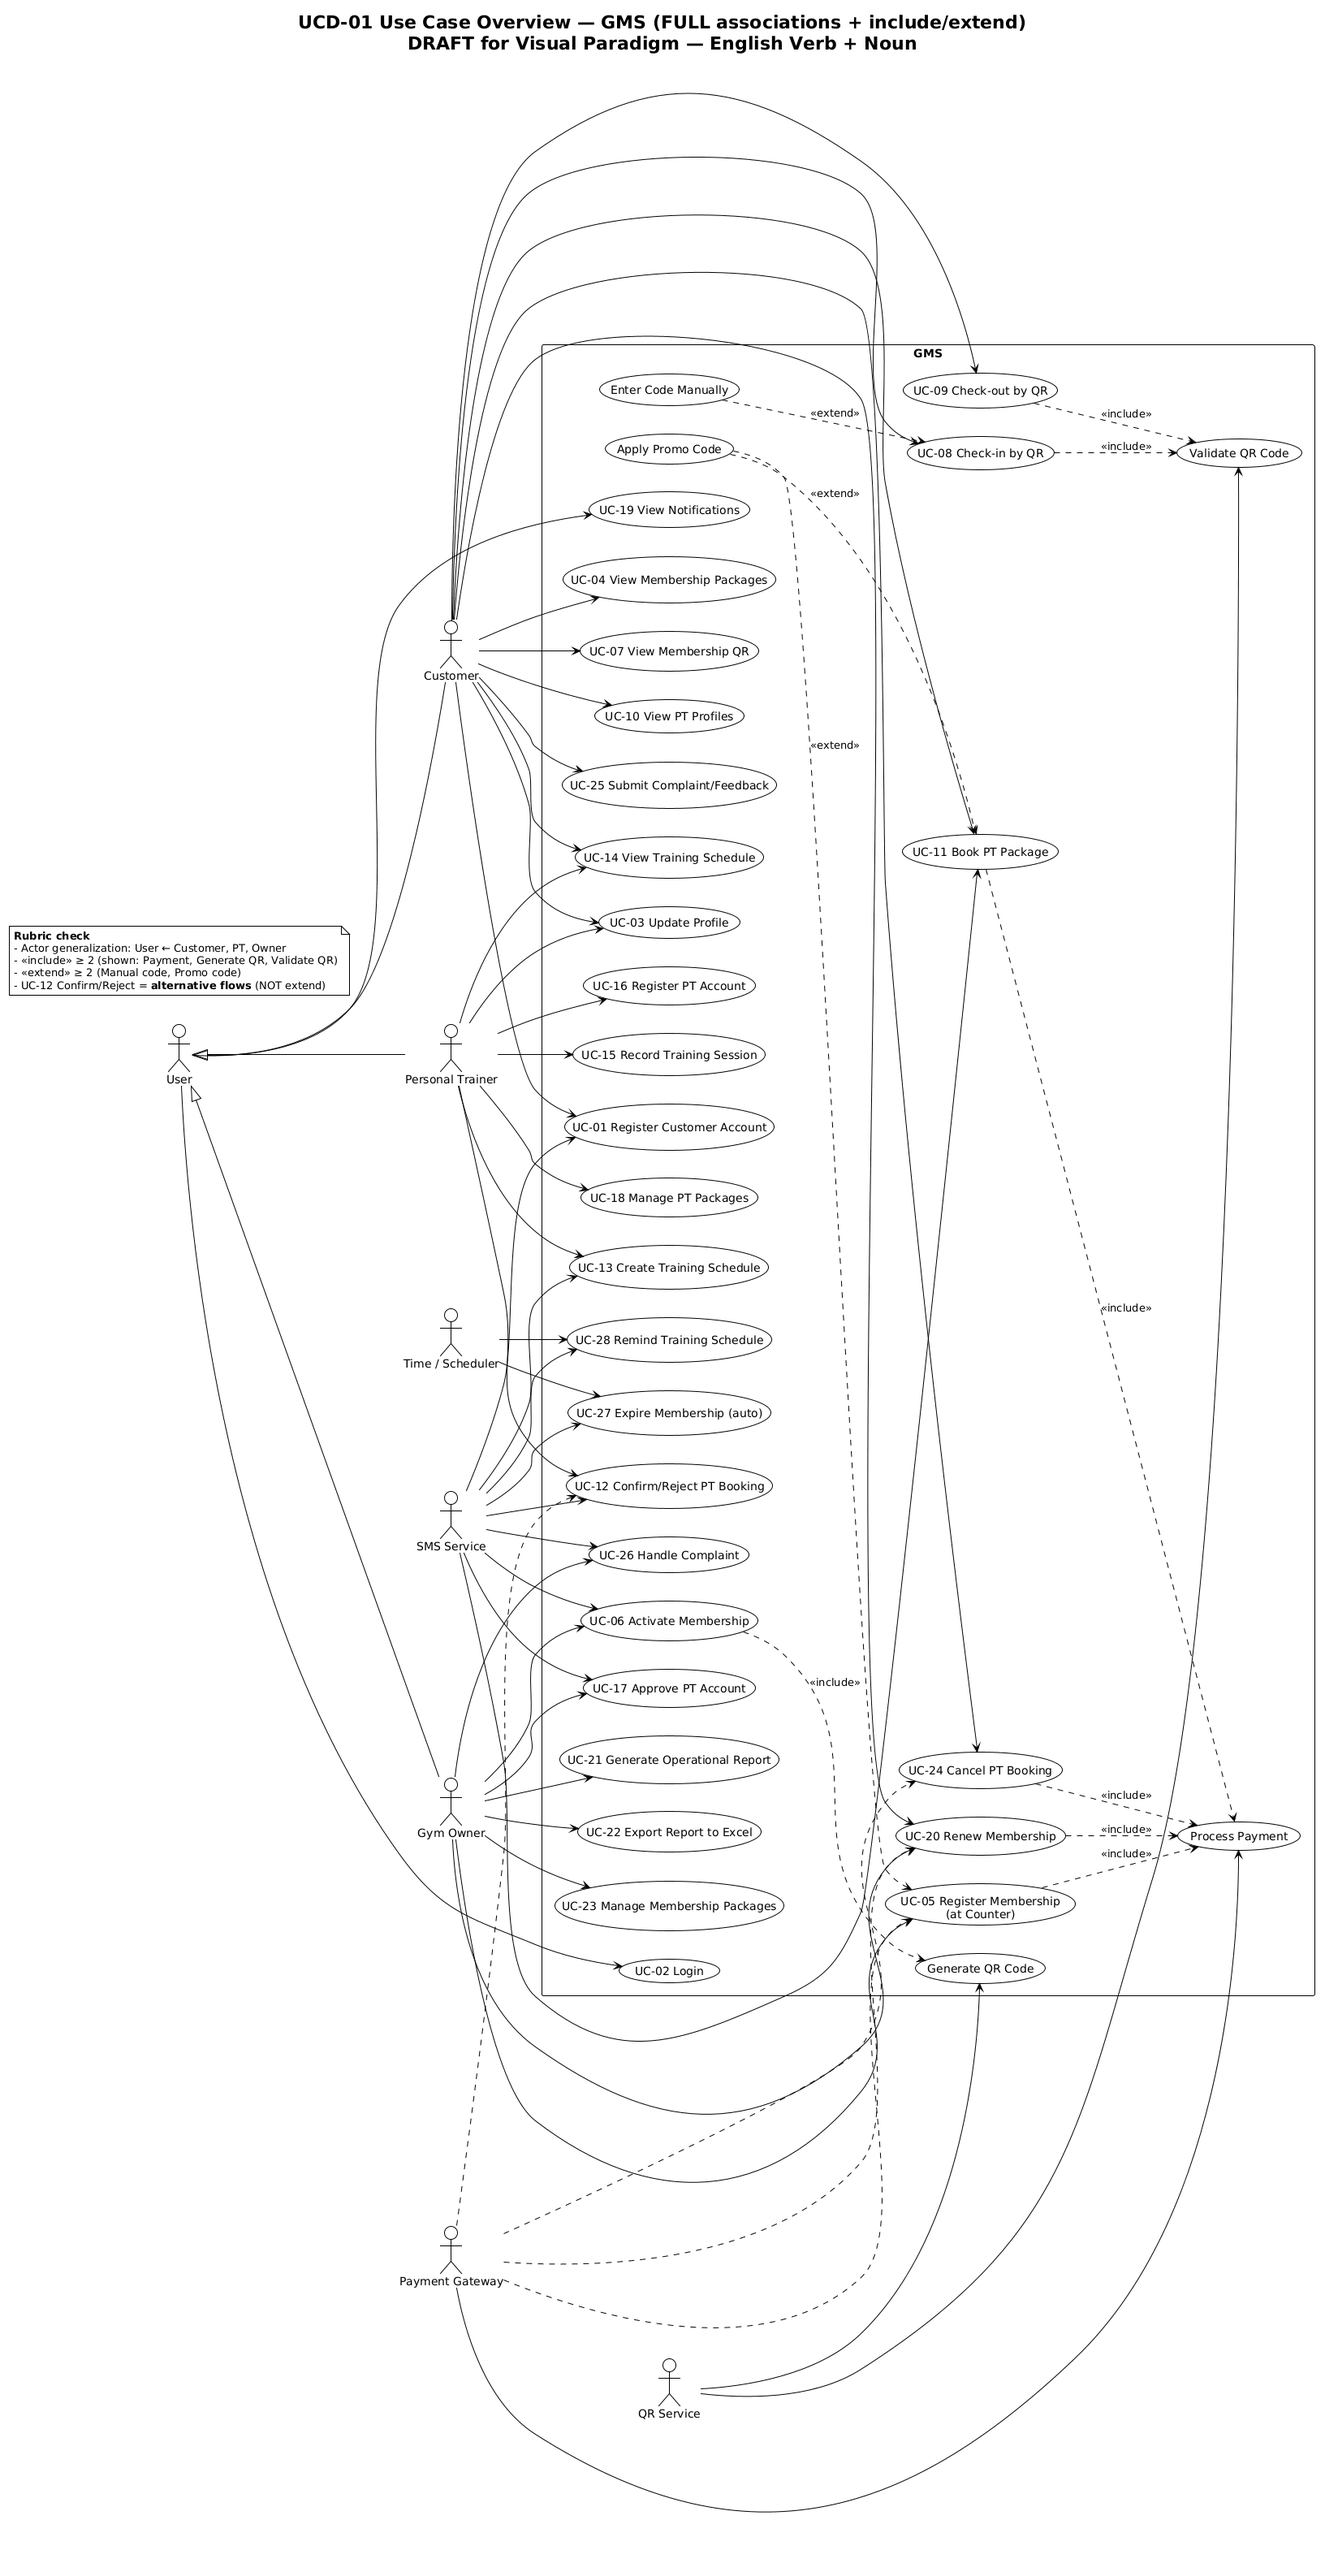
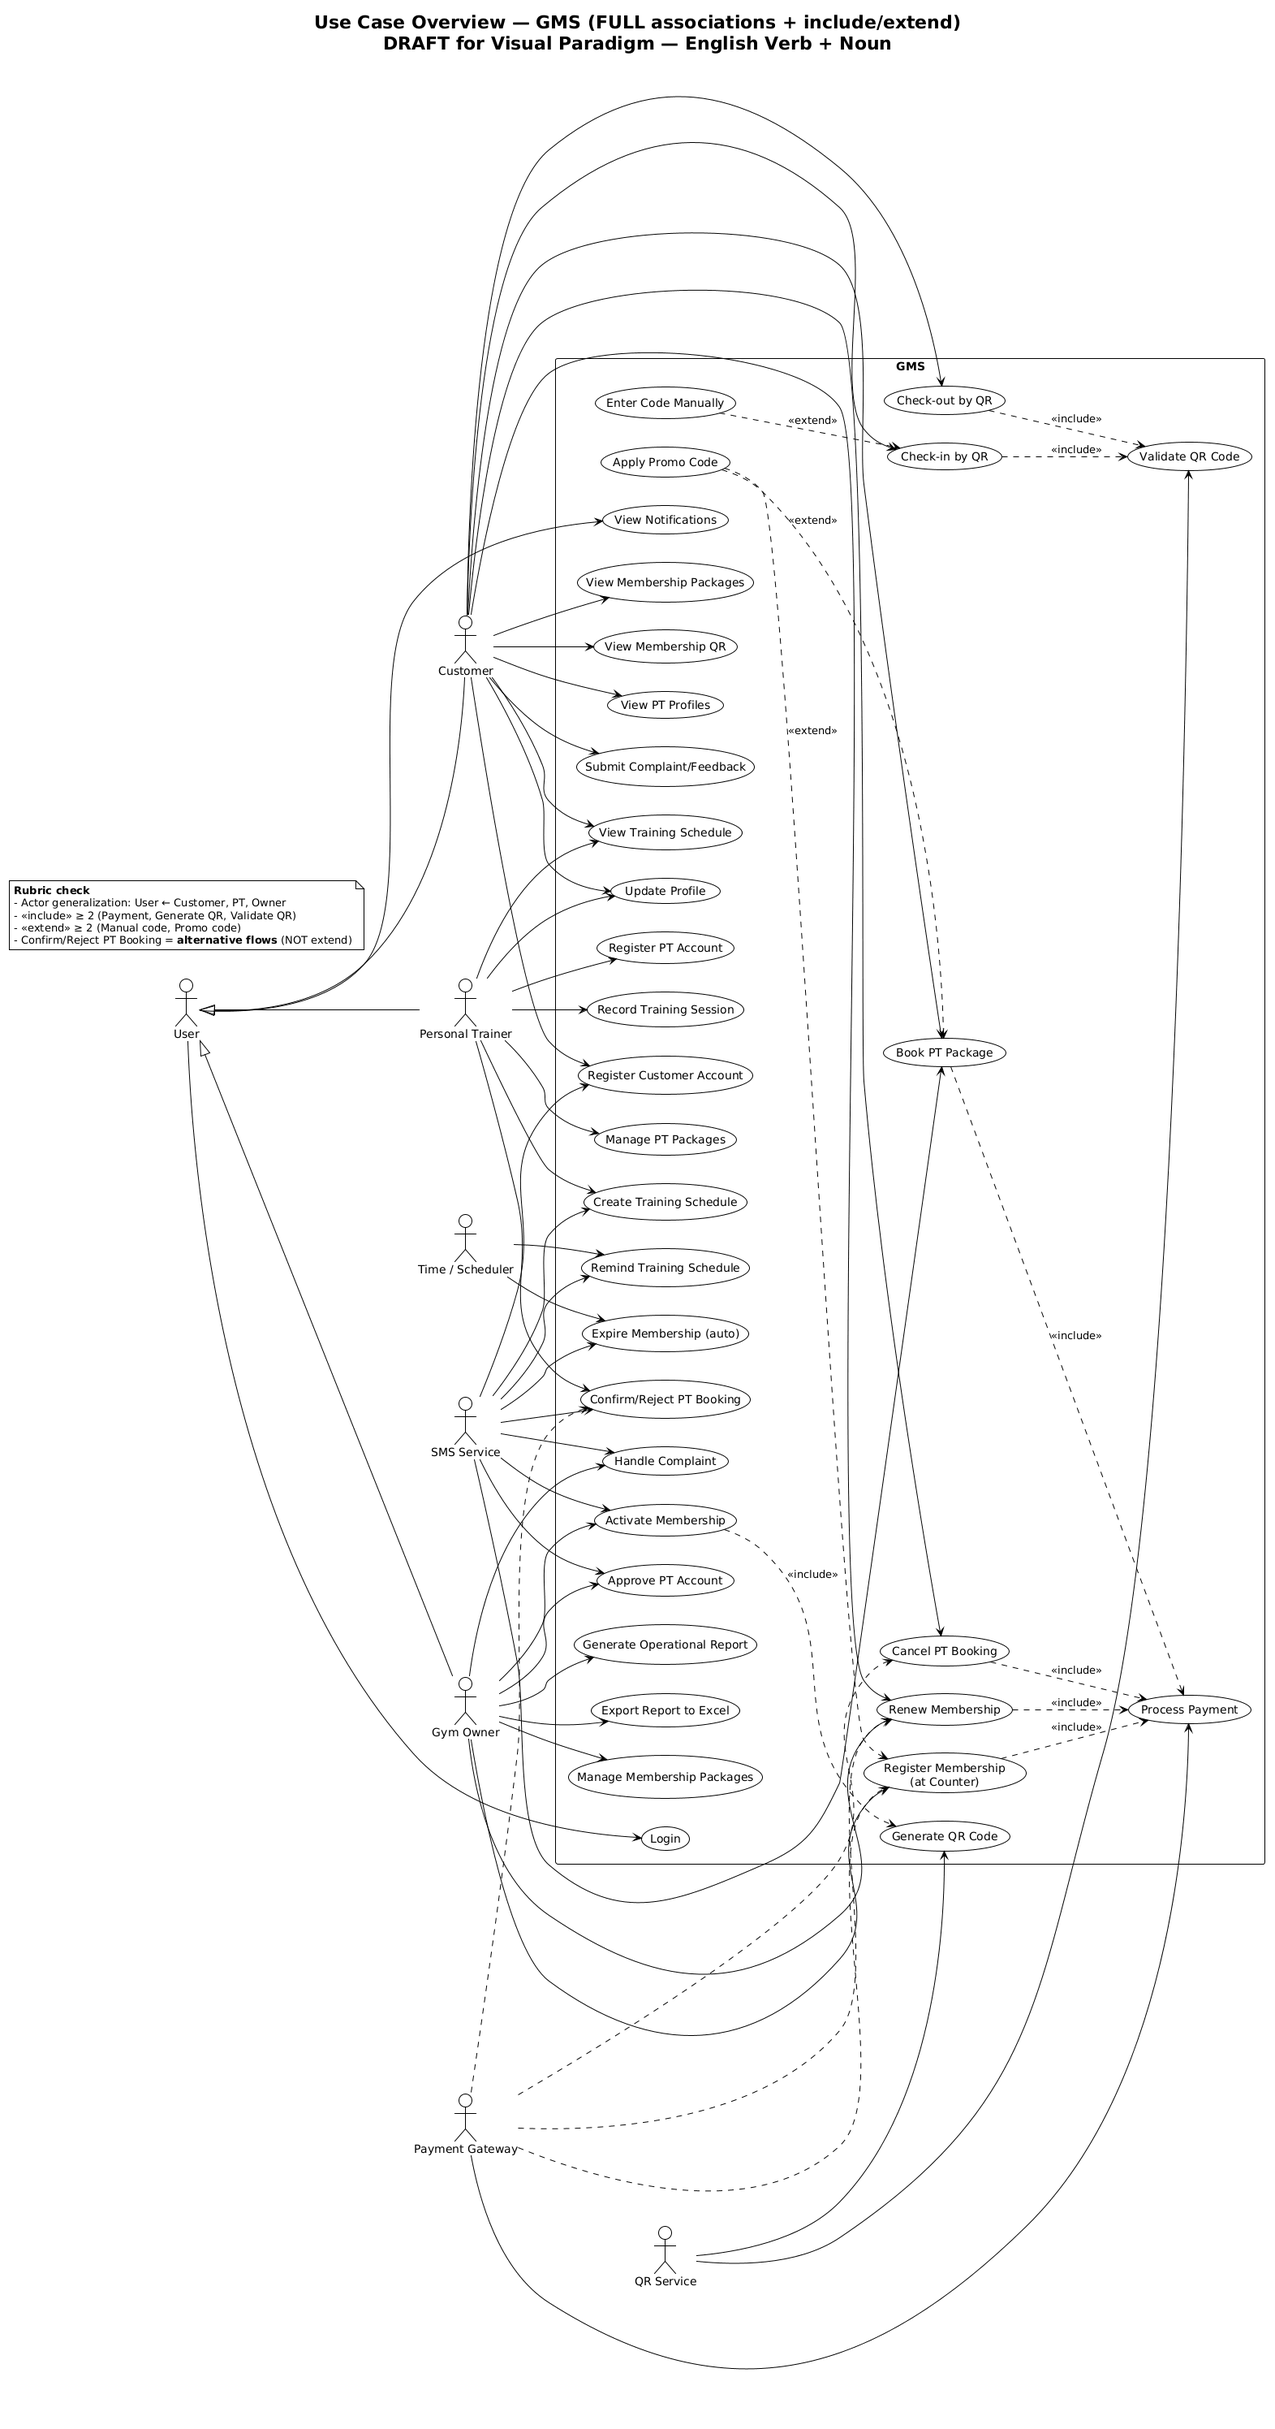
[Bước 3][Phước] remove UC- prefixes from UCD Overview ovals

diff --git a/docs/step3/phuoc_ucd_overview.md b/docs/step3/phuoc_ucd_overview.md
@@ -64,4 +64,4 @@
 
 ## Naming
 
-English **Verb + Noun** (e.g. `Book PT Package`, not `Booking`).
+English **Verb + Noun** only — **no `UC-xx` prefix on the oval** (e.g. `Book PT Package`, not `UC-11 Book PT Package`). IDs stay in UC List / SRS text.
